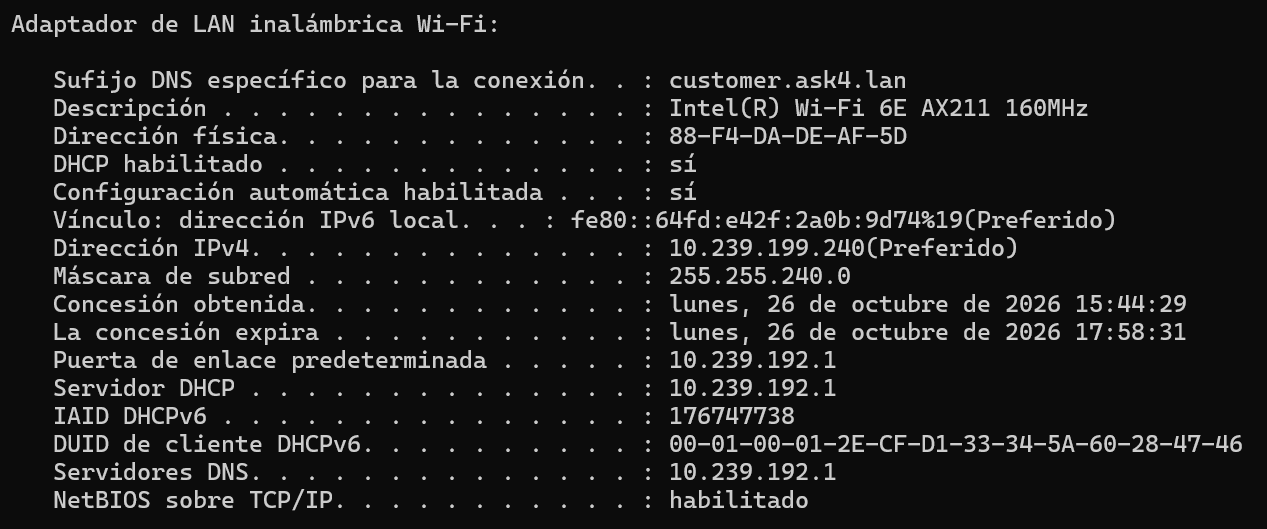
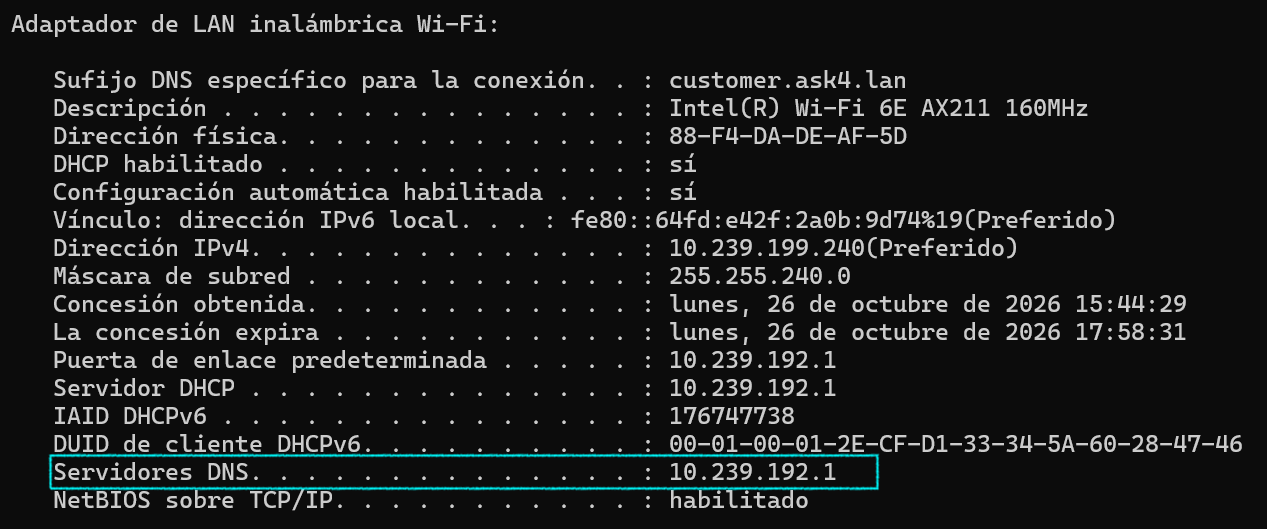
Más fotos

Changed region(s): [[0.0308, 0.9074, 0.708, 0.9376], [0.0308, 0.8469, 0.708, 0.8771]]

diff --git a/Task1/index.html b/Task1/index.html
@@ -237,17 +237,19 @@ This is the body of the message.</pre>
  
 <h4>2.1.1. Display DNS settings on your computer using Control Panel and ipconfig. Find the Google DNS server and change DNS settings on your computer to use this server.</h4>
 <p>First, the original network DNS settings were checked using the command <code>ipconfig /all</code> before applying any changes.</p>
-<figure><img src="images/2_1_1_image1.png" alt="ipconfig /all showing original DNS settings" width="800"><figcaption>Output of <code>ipconfig /all</code> showing the original local DNS server.</figcaption></figure>
+<figure><img src="images/2_1_1_image2.png" alt="ipconfig /all showing original DNS settings" width="800"><figcaption>Output of <code>ipconfig /all</code> showing the original local DNS server.</figcaption></figure>
 
 <p>Then, the DNS settings were modified in the Windows Control Panel, in the properties of the IPv4 protocol of the network adapter, to use the Google public DNS server <code>8.8.8.8</code>. After that, we checked again with the command <code>ipconfig /all</code>, which lists the new DNS server in use.</p>
-<figure><img src="images/2_1_1_image2.png" alt="ipconfig /all showing Google DNS" width="800"><figcaption>Output of <code>ipconfig /all</code> showing 8.8.8.8 as the new DNS server.</figcaption></figure>
+<figure><img src="images/2_1_1_image1.png" alt="ipconfig /all showing Google DNS" width="800"><figcaption>Output of <code>ipconfig /all</code> showing 8.8.8.8 as the new DNS server.</figcaption></figure>
 
 <h4>2.1.2. Using dig, host, and nslookup, find the following information:</h4>
-<p>Although the original lab instructions suggest using <code>dig</code>, <code>host</code>, and <code>nslookup</code>, these tests were performed on a Windows environment. Since native <code>dig</code> and <code>host</code> utilities are not installed by default in Windows Command Prompt (CMD), <code>nslookup</code> was used as the primary, equivalent standard tool to query DNS records.</p>
-
+<p>Although the original lab instructions suggest using <code>dig</code>, <code>host</code>, and <code>nslookup</code>, these tests were mostly performed on a Windows environment using <code>nslookup</code>. Additionally, the utilities <code>dig</code> and <code>host</code> were used on a macOS environment to query DNS records.</p>
 <h5>2.1.2.1. Domain names and corresponding IP addresses of computers in the lodz.pl domain.</h5>
 <p>Using <code>nslookup</code>, we queried the NS and MX records of <code>lodz.pl</code> to identify its infrastructure servers and their IP addresses. The NS records show which servers are authoritative for the zone, and the MX records show which servers receive its e-mail. Each of these names was resolved to an IP address through an A record.</p>
-<figure><img src="images/2_1_2_1_image.png" alt="NS and MX records for lodz.pl" width="800"><figcaption>NS and MX records of lodz.pl.</figcaption></figure>
+<figure><img src="images/2_1_2_1_f.png" alt="Initial DNS records query for lodz.pl" width="800"></figure>
+<figure><img src="images/2_1_2_1_image.png" alt="MX records for lodz.pl and IP's" width="800"><figcaption>NS and MX records of lodz.pl.</figcaption></figure>
+<p>Furthermore, we also queried the domain using <code>dig</code> and <code>host</code> on macOS:</p>
+<figure><img src="images/2_1_2_1_mac.png" alt="dig and host queries for lodz.pl on macOS" width="800"><figcaption>Querying lodz.pl records using dig and host on macOS.</figcaption></figure>
 
 <h5>2.1.2.2. A computer somewhere in Europe, outside Łódź, and find all available information about the DNS settings of this computer.</h5>
 <p>We used <code>nslookup</code> to retrieve the IP address, the mail server and the name server records for the University of Oxford, in the United Kingdom. This gives a complete picture of how the domain is configured: where its web server is (A record), where its mail is delivered (MX) and which servers are authoritative (NS).</p>
